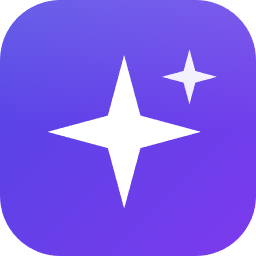
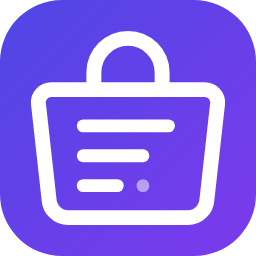
feat(brand): replace the sparkle mark with a bag of generated records
The old mark was a four-pointed sparkle on a gradient tile — the most
reused shape in software right now, and it said nothing about the plugin.
A sparkle means magic; a tool that writes thousands of rows to a fixed
seed is deterministic by design.

The new mark is a shopping bag whose contents are data rows: commerce
from the silhouette, records from the rows, and a short trailing block on
the last row for a row still being written. The indigo-to-violet gradient
is unchanged, since it matches the plugin's own default accent token.

Two drawing notes, both found by rendering rather than by reasoning:

- The body has to taper. A straight-sided bag under a semicircular handle
  reads as a padlock, and an angled top with a fold line reads as a
  shipping carton. Only the taper gives a bag.
- The 20px menu icon stays an outline. Filling the body solid turns a
  thin handle arc on a dark shape back into a padlock; an open interior
  keeps it a bag. It also drops to two rows, since the third fills in.

Assets regenerated from the vector with headless Chrome: icon 128/256/512
and both banner sizes. The sidebar now uses a new `logomark` icon rather
than the generic `sparkles` glyph, which stays in use on the Generate
buttons where it means the action, not the brand.

diff --git a/src/admin/lib/icons.tsx b/src/admin/lib/icons.tsx
@@ -1,6 +1,9 @@
 import React from "react";
 
 const ICONS: Record<string, string> = {
+  // Brand mark: a bag of generated records. Stroked variant of assets/brand/fakerpress-mark.svg.
+  logomark:
+    '<path d="M4.8 8.4h14.4a1.2 1.2 0 0 1 1.2 1.3l-1 9a1.8 1.8 0 0 1-1.8 1.7H6.4a1.8 1.8 0 0 1-1.8-1.7l-1-9a1.2 1.2 0 0 1 1.2-1.3Z"/><path d="M8.8 8.4V6.8a3.2 3.2 0 0 1 6.4 0v1.6"/><path d="M7.2 12.2h9.2"/><path d="M7.2 15.6h6.8"/>',
   box: '<path d="M21 8a2 2 0 0 0-1-1.73l-7-4a2 2 0 0 0-2 0l-7 4A2 2 0 0 0 3 8v8a2 2 0 0 0 1 1.73l7 4a2 2 0 0 0 2 0l7-4A2 2 0 0 0 21 16Z"/><path d="m3.3 7 8.7 5 8.7-5"/><path d="M12 22V12"/>',
   users: '<path d="M16 21v-2a4 4 0 0 0-4-4H6a4 4 0 0 0-4 4v2"/><circle cx="9" cy="7" r="4"/><path d="M22 21v-2a4 4 0 0 0-3-3.87"/><path d="M16 3.13a4 4 0 0 1 0 7.75"/>',
   cart: '<circle cx="8" cy="21" r="1"/><circle cx="19" cy="21" r="1"/><path d="M2.05 2.05h2l2.66 12.42a2 2 0 0 0 2 1.58h9.78a2 2 0 0 0 1.95-1.57l1.65-7.43H5.12"/>',

diff --git a/src/admin/components/shell/Sidebar.tsx b/src/admin/components/shell/Sidebar.tsx
@@ -70,7 +70,7 @@ export function Sidebar({ collapsed, setCollapsed, counts, openCmd }: SidebarPro
       {/* Brand */}
       <div className="fp-brand">
         <div className="fp-brand-mark">
-          <Icon name="sparkles" size={17} />
+          <Icon name="logomark" size={17} />
         </div>
         {!collapsed && (
           <div className="fp-brand-text">

diff --git a/CHANGELOG.md b/CHANGELOG.md
@@ -15,6 +15,7 @@ Release dates are taken from the release tags in this repository. The [`readme.t
 
 ### Changed
 
+- New brand mark: a shopping bag holding rows of generated data, replacing the sparkle. Applied to the WordPress.org icon and banners, the admin menu icon, the sidebar, and the logo lockup.
 - The live preview now shows up to 25 rows instead of 12, matching what the preview endpoint already returns.
 
 ### Fixed
